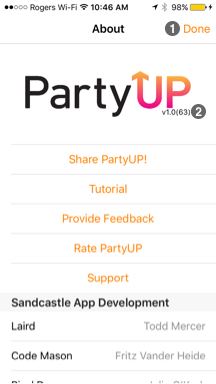
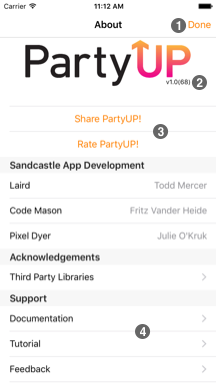
Updated images since addition of offensive material features.  Added content for video viewing.  Changed some formatting and layout.

diff --git a/support.html b/support.html
@@ -10,14 +10,15 @@
   </head>
   
   <body>
-	<h1>Welcome to PartyUP</h1>  
-	<p>PartyUP is a nightlife application that allows you to share short, ephemeral videos demonstrating the atmosphere at the venue you are visiting.  If you want to find your next party stop, you can view the videos submitted by other party animals at venues in your area to make an informed choice.  Videos submitted to PartyUP are between 5 and 10 seconds long and may include a note from the submitter providing details about the atmosphere at the venue.  A video is linked to the venue from which it was submitted, usually a bar or nightlife spot.</p> 
-	<p>If you aren't out partying just yet, you can share a video on the pregame feed of the city you are in.  This allows you to share your plans with other party people in your area.  You also have the option of looking at the videos from other cities if you think those cities offer fun you are willing to travel for.</p>
-	
-	<h2 id="CityHub">City Hub</h2>
-	<p>The city hub is the center of the PartyUP experience.  The two primary activities of PartyUP, submitting and viewing videos, are initiated from here.  Your location is used to display the content from your area by default, though you can see content from other cities by selecting a city in the <em>Party Place Picker</em>.  To limit data usage, PartyUP does not poll for the freshest data on a regular basis.  You refresh the data on demand by using pull to refresh.</p>
-	<image src="images/Venues.png"/>
-	<div class="screen_description">
+  	<div id="Welcoming">
+		<h1>Welcome to PartyUP</h1>  
+		<p>PartyUP is a nightlife application that allows you to share short, ephemeral videos demonstrating the atmosphere at the venue you are visiting.  If you want to find your next party stop, you can view the videos submitted by other party animals at venues in your area to make an informed choice.  Videos submitted to PartyUP are between 5 and 10 seconds long and may include a note from the submitter providing details about the atmosphere at the venue.  A video is linked to the venue from which it was submitted, usually a bar or nightlife spot.</p> 
+		<p>If you aren't out partying just yet, you can share a video on the pregame feed of the city you are in.  This allows you to share your plans with other party people in your area.  You also have the option of looking at the videos from other cities if you think those cities offer fun you are willing to travel for.</p>
+	</div>	
+	<div id="Hubbing"> 
+		<h2 id="CityHub">City Hub</h2>
+		<p>The city hub is the center of the PartyUP experience.  The two primary activities of PartyUP, submitting and viewing videos, are initiated from here.  Your location is used to display the content from your area by default, though you can see content from other cities by selecting a city in the <em>Party Place Picker</em>.  To limit data usage, PartyUP does not poll for the freshest data on a regular basis.  You refresh the data on demand by using pull to refresh.</p>
+		<image src="images/Venues.png"/>
 		<details><summary>1. Party Place Picker</summary><p>Select a sticky city whose content will be displayed in the city hub.  <em>Current Location</em> uses your location to determine the city you are in and shows content for that city.  The available sticky cities are currently curated by the PartyUP development team.</p></details>
 		<details><summary>2. About</summary><p>Peruse documentation and acknowledgements.  You can also share and rate PartyUP.</p></details>
 		<details><summary>3. Submit Video</summary><p>Initiate the process of submitting a video by bringing up the <a href="#Recording">Recording</a> popover.</p></details>
@@ -37,37 +38,56 @@
 			<li>🔥 - >5 videos</li>
 		</ul>
 	</div>
-	
-	<h2>Video Submission</h2>
-	<p>PartyUP uses location services to compile a list of candidate venues you may be attending.  You will not be allowed to begin recording a video until your location has been roughly determined.  Submitting a video involves <a href="#Recording">recording</a> a video and then <a href="#Submitting">submitting</a> the video.</p>
-	<h3 id="Recording">Recording</h3>
-	<p>Begin the submission process by recording a video that is between 5 and 10 seconds long.  Videos are more expressive of the atmosphere at the venue than photos, so PartyUP only allows submission of videos.</p>
-	<image src="images/Recording.png"/>
-	<div class="screen_description">
-		<details><summary>1. Cancel</summary><p>Return to the <a href="#CityHub">city hub</a> without submitting a video.  Available even while the determining location heads up display is present.</p></details>
-		<details><summary>2. Camera Toggle</summary><p>Toggle between the rear and front cameras.</p></details>
-		<details><summary>3. Viewfinder</summary><p>See what your camera is seeing.</p></details>
-		<details><summary>4. Record</summary><p>Press and hold to record a video.  Disabled while your location is being determined.  The progress ring changes color from <span style="color:rgb(237,5,138)">pink</span> to <span style="color:rgb(250,168,66)">yellow</span> when the minimum video duration has been recorded.  When the progress ring is full or you release the button after having recorded at least five seconds, PartyUP stops the recording and moves on to <a href="#Submitting">submitting</a> the video.  If you release the record button before five seconds have been recorded, the video is discarded and you may begin recording another video.</p></details>
+	<div id="Baking">
+		<h2>Video Submission</h2>
+		<p>PartyUP uses location services to compile a list of candidate venues you may be attending.  You will not be allowed to begin recording a video until your location has been roughly determined.  Submitting a video involves <a href="#Recording">recording</a> a video and then <a href="#Submitting">submitting</a> the video.</p>
+		<div id="Recorder">
+			<h3 id="Recording">Recording</h3>
+			<p>Begin the submission process by recording a video that is between 5 and 10 seconds long.  Videos are more expressive of the atmosphere at the venue than photos, so PartyUP only allows submission of videos.</p>
+			<image src="images/Recording.png"/>
+			<details><summary>1. Cancel</summary><p>Return to the <a href="#CityHub">city hub</a> without submitting a video.  Available even while the determining location heads up display is present.</p></details>
+			<details><summary>2. Camera Toggle</summary><p>Toggle between the rear and front cameras.</p></details>
+			<details><summary>3. Viewfinder</summary><p>See what your camera is seeing.</p></details>
+			<details><summary>4. Record</summary><p>Press and hold to record a video.  Disabled while your location is being determined.  The progress ring changes color from <span style="color:rgb(237,5,138)">pink</span> to <span style="color:rgb(250,168,66)">yellow</span> when the minimum video duration has been recorded.  When the progress ring is full or you release the button after having recorded at least five seconds, PartyUP stops the recording and moves on to <a href="#Submitting">submitting</a> the video.  If you release the record button before five seconds have been recorded, the video is discarded and you may begin recording another video.</p></details>
+		</div>
+		<div id="Submitter">
+			<h3 id="Submitting">Submitting</h3>
+			<p>Having <a href="#Recording">recorded</a> your video, you may now share it with other PartyUP users by submitting it.  You have the option of adding a comment describing the fun you are having and you may tweak the venue you are submitting from if we didn't get it quite right using location services.</p>
+			<image src="images/Submitting.png"/>
+			<details><summary>1. Cancel</summary><p>Return to the <a href="#Recording">recording</a> step, discarding the current video.</p></details>
+			<details><summary>2. Submit</summary><p>Share the video with other PartyUp users.</p></details>
+			<details><summary>3. Comment</summary><p>Describe the atmosphere at the venue, note the deals, and say hello.  The comment will be displayed in the <a href="#Viewing">viewing pages</a> along with the video.</p></details>
+			<details><summary>4. Venue Picker</summary><p>PartyUP makes a guess about the venue you are visiting using your location, but you can override the guess by choosing from a list of nearby venues.  The pregame feed for the city you are in will always be present at the end of the list.</p></details>
+			<details><summary>5. Video Preview</summary><p>The video being submitted is played here on a loop for you to review.</p></details>
+		</div>
 	</div>
-	<h3 id="Submitting">Submitting</h3>
-	<p>Having recorded your video, you may now share it with other PartyUP users by submitting it.  You have the option of adding a comment describing the fun you are having and you may tweak the venue you are submitting from if we didn't get it quite right using location services.</p>
-	<image src="images/Submitting.png"/>
-	<div class="screen_description">
-		<details><summary>1. Cancel</summary><p>Return to the <a href="#Recording">recording</a> step, discarding the current video.</p></details>
-		<details><summary>2. Submit</summary><p>Share the video with other PartyUp users.</p></details>
-		<details><summary>3. Comment</summary><p>Describe the atmosphere at the venue or the fun you are having.  The comment will be displayed in the <a href="#Viewing">viewing pages</a> along with the video.</p></details>
-		<details><summary>4. Venue Picker</summary><p>PartyUP makes a guess about the venue you are at using your location, but you can override the guess by choosing for a list of nearby venues.  The pregame feed for the city you are in will always be present at the end of the list.</p></details>
-		<details><summary>5. Video Preview</summary><p>The video being submitted is played here on a loop for you to review.</p></details>
+	<div id="Tasting">
+		<h2 id="Viewing">Video Feed</h2>
+		<p>Having selected a feed in the <a href="#CityHub">city hub</a>, you flip through the pages to determine which party is primed for your attendance.  Each page shows you a video and comment submitted by a fellow partier.  Flip through the pages by swiping left or right.  The fresher the video the earlier it appears in the feed. While you are flipping through the feed, newly submitted videos are not inserted. You will have to leave and return to the feed to see new videos.</p> 
+		<h3 id="VideoPage">Video Page</h3>
+		<p>See a video submitted by a fellow partier.  You can help keep the feed healthy and helpful by voting videos up or down, sharing the video with friends, or reporting the video as inappropriate.</p>
+		<image src="images/Viewing.png"/>
+		<details><summary>1. Back</summary><p>Return to the <a href="#CityHub">city hub</a>.</p></details>
+		<details><summary>2. Venue Label</summary><p>Name of the venue from which the video was submitted.</p></details>
+		<details><summary>3. Video</summary><p>What you have come to see, a video submitted by a fellow partier.  The video playback loops repeatedly.  There is a progress indicator showing how far through the video you are in the top right corner.</p></details>
+		<details><summary>4. Timestamp</summary><p>Indicates when the video was submitted. Clicking on the time toggles between relative and short date and time formats.</p></details>
+		<details><summary>5. Vote</summary><p></p></details>
+		<details><summary>6. Communicate</summary><p></p></details>
+		<details><summary>7. Comment</summary><p>A few words from the partier who submitted the video. The comment is scrollable if it is a long one.</p></details>
+		<details><summary>8. Flip Page</summary><p>If you are too uncoordinated to swipe through pages, use these handy back and forward buttons to flip through video pages instead.</p></details>
+		<h3 id="SharePage">Share Page</h3>
+		<image src="images/Sharing.png"/>
 	</div>
-	<h2 id="Viewing">Video Viewing</h2>
-	<h3></h3>
-	<image src="images/Viewing.png"/>
-	<h3></h3>
-	<h2 id="About">About</h2>
-	<div class="screen_description">
+	<div id="Abouting">
+		<h2 id="About">About</h2>
+		<p>Learn about PartyUP, who contributed to it and how it works.  You can share PartyUP with your friends here too.</p>
 		<image src="images/About.png"/>
 		<details><summary>1. Done</summary><p>Return to the <a href="#CityHub">City Hub</a></p></details>
 		<details><summary>2. Version</summary><p>Indicates the version of PartyUP you are using.  If you ask for support or provide feedback, you will be asked for this valuable piece of information.</p></details>
+		<details><summary>3. Share and Review</summary><p>Share PartyUP with friends of Facebook or Twitter.  Rate PartyUP on the App Store.  PartyUP becomes more useful with each additional partier using it.</p></details>
+		<details><summary>4. Support</summary><p>Need some help?  You are reading the PartyUP documentation, there are also links to the tutorial, <a href="terms.html">terms of service</a>, and <a href="privacy.html">privacy policy</a> in this section.  You may wish to provide us feedback via the <a href="https://www.surveymonkey.com/r/782PT5P">Feedback</a> link also in this section.</p></details>
+	</div>
+	<div id="Beta">
 	</div>
   </body>
 </html>

diff --git a/partyup.css b/partyup.css
@@ -7,7 +7,7 @@ body {
 	margin: 5px 10px;
 }
 
-.screen_description p ul ol {
+details p ul ol {
 	font-size: 90%;
 	margin-left: 10px;
 }
